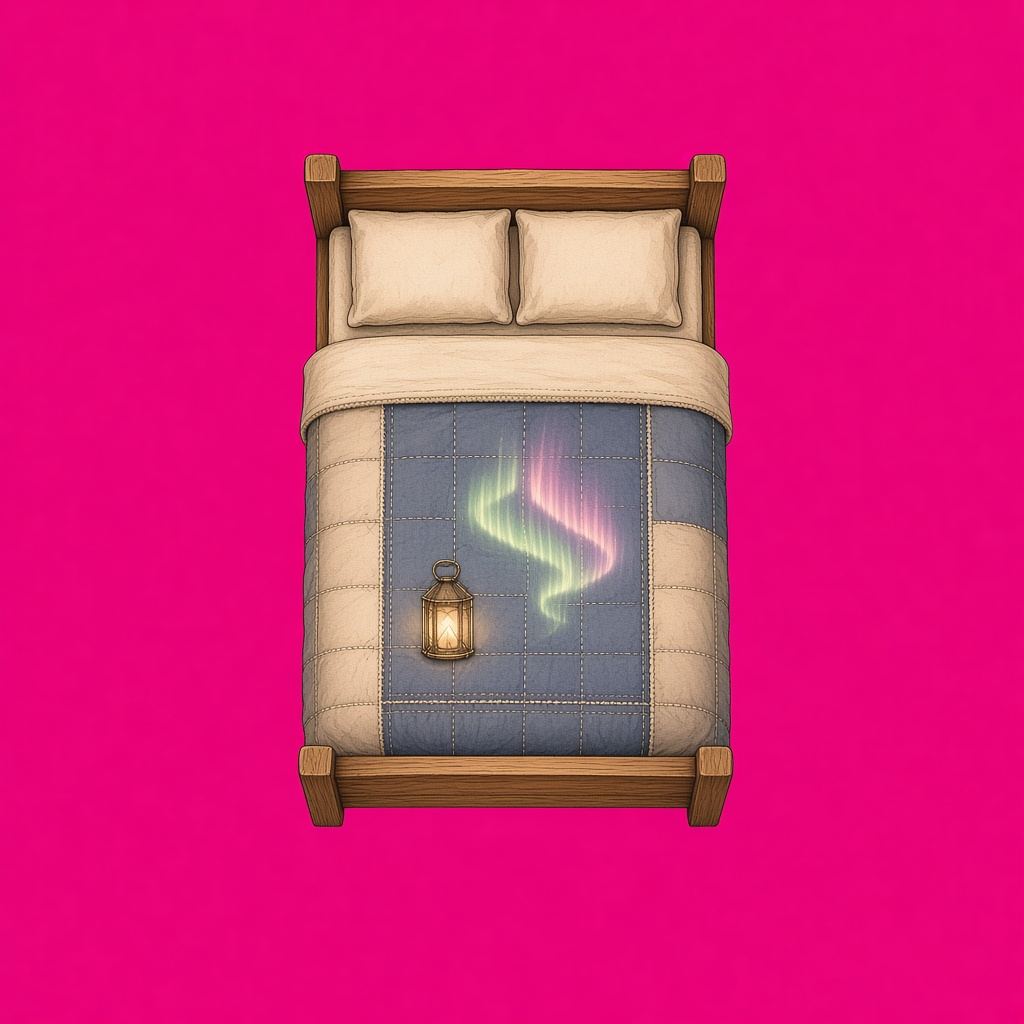
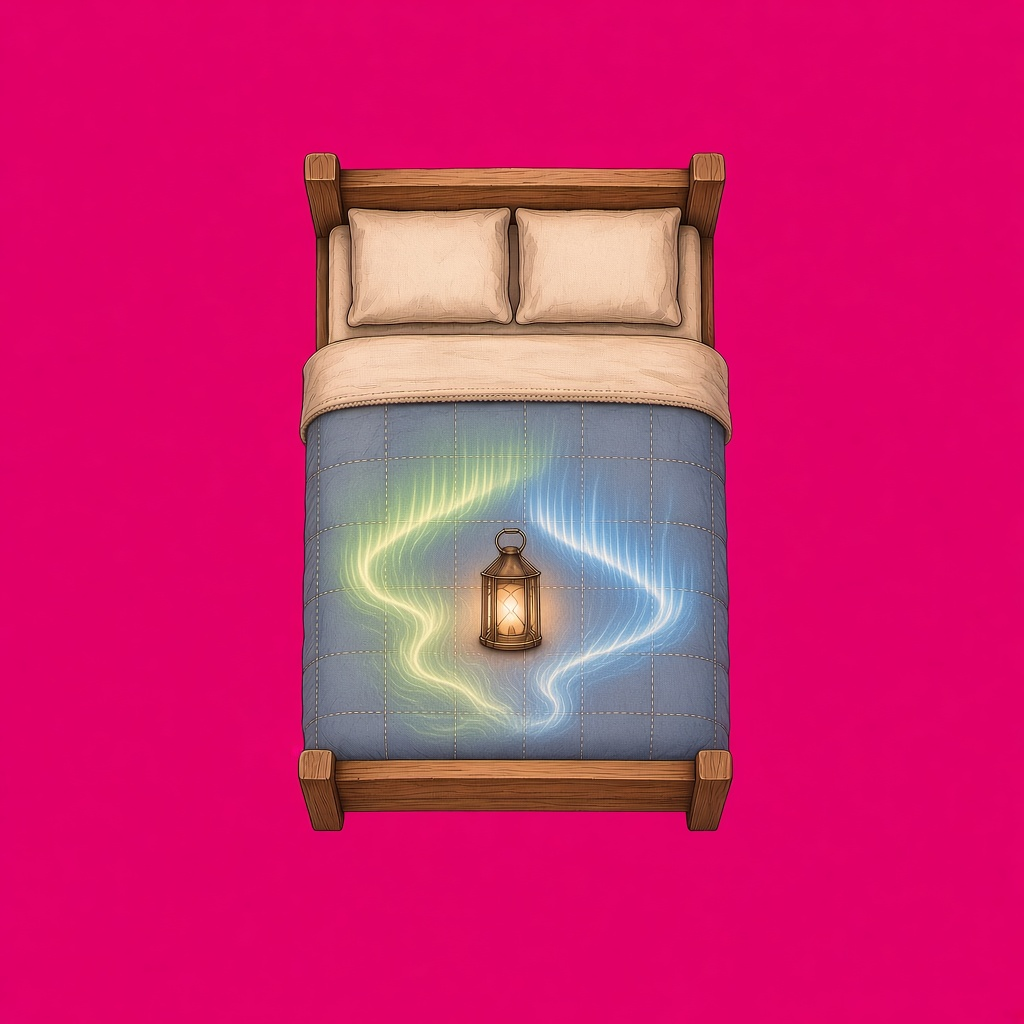
Repaint the cabin-bed quilt and inset the interior door.
The quilt now has a glowing lantern centered on a green-left, blue-right aurora, and the old glitchy patch near the pillows is gone. The door overlay is shifted up so it sits fully inside r3c1, with the same sideways placement.

Changed region(s): [[0.2812, 0.125, 0.7188, 0.8125]]

diff --git a/static/packs/storybook/sources/prompts.md b/static/packs/storybook/sources/prompts.md
@@ -166,13 +166,17 @@ Furniture overlays have no floor of their own — they sit on `cabin_floor`.
 - **cabin_floor** — Opaque full-bleed interior pine floorboards in honey,
   ochre, and umber, edge to edge, no furniture, no grass, no soil, no rug.
 - **cabin_bed** — A modest wooden double bed from above, two cream pillows
-  at the head, a cozy dusty-blue and cream quilt with a small stitched lantern
-  and a quiet aurora of green-violet-rose needlework. Subject on magenta.
+  at the head, and a cozy even dusty-blue quilt. A glowing lantern is
+  stitched in the centre of the quilt, set over a sweeping aurora that is
+  green on the left and blue on the right. An earlier quilt with the lantern
+  low-left, the aurora above it, and a glitchy pale rectangle near the
+  pillows was replaced. Subject on magenta.
 - **cabin_chest** — A closed rustic farmhouse wooden chest with dull iron
   bands and a hasp, subject on magenta.
 - **cabin_door** — The inside face of a simple wooden cabin door in a short
-  frame, iron latch, sitting at the bottom of the tile (the door is
-  bottom-left in the room). Subject on magenta.
+  frame, iron latch, sitting toward the bottom of the tile (the door is
+  bottom-left in the room) but fully inset so the frame does not clip
+  out of r3c1. The sideways placement is unchanged. Subject on magenta.
 - **cabin_fireplace** — A stone farmhouse fireplace on the right side of the
   tile, unlit firebox with cold logs, subject on magenta.
 - **cabin_fireplace_lit** — The same fireplace with a warm fire in the box.
